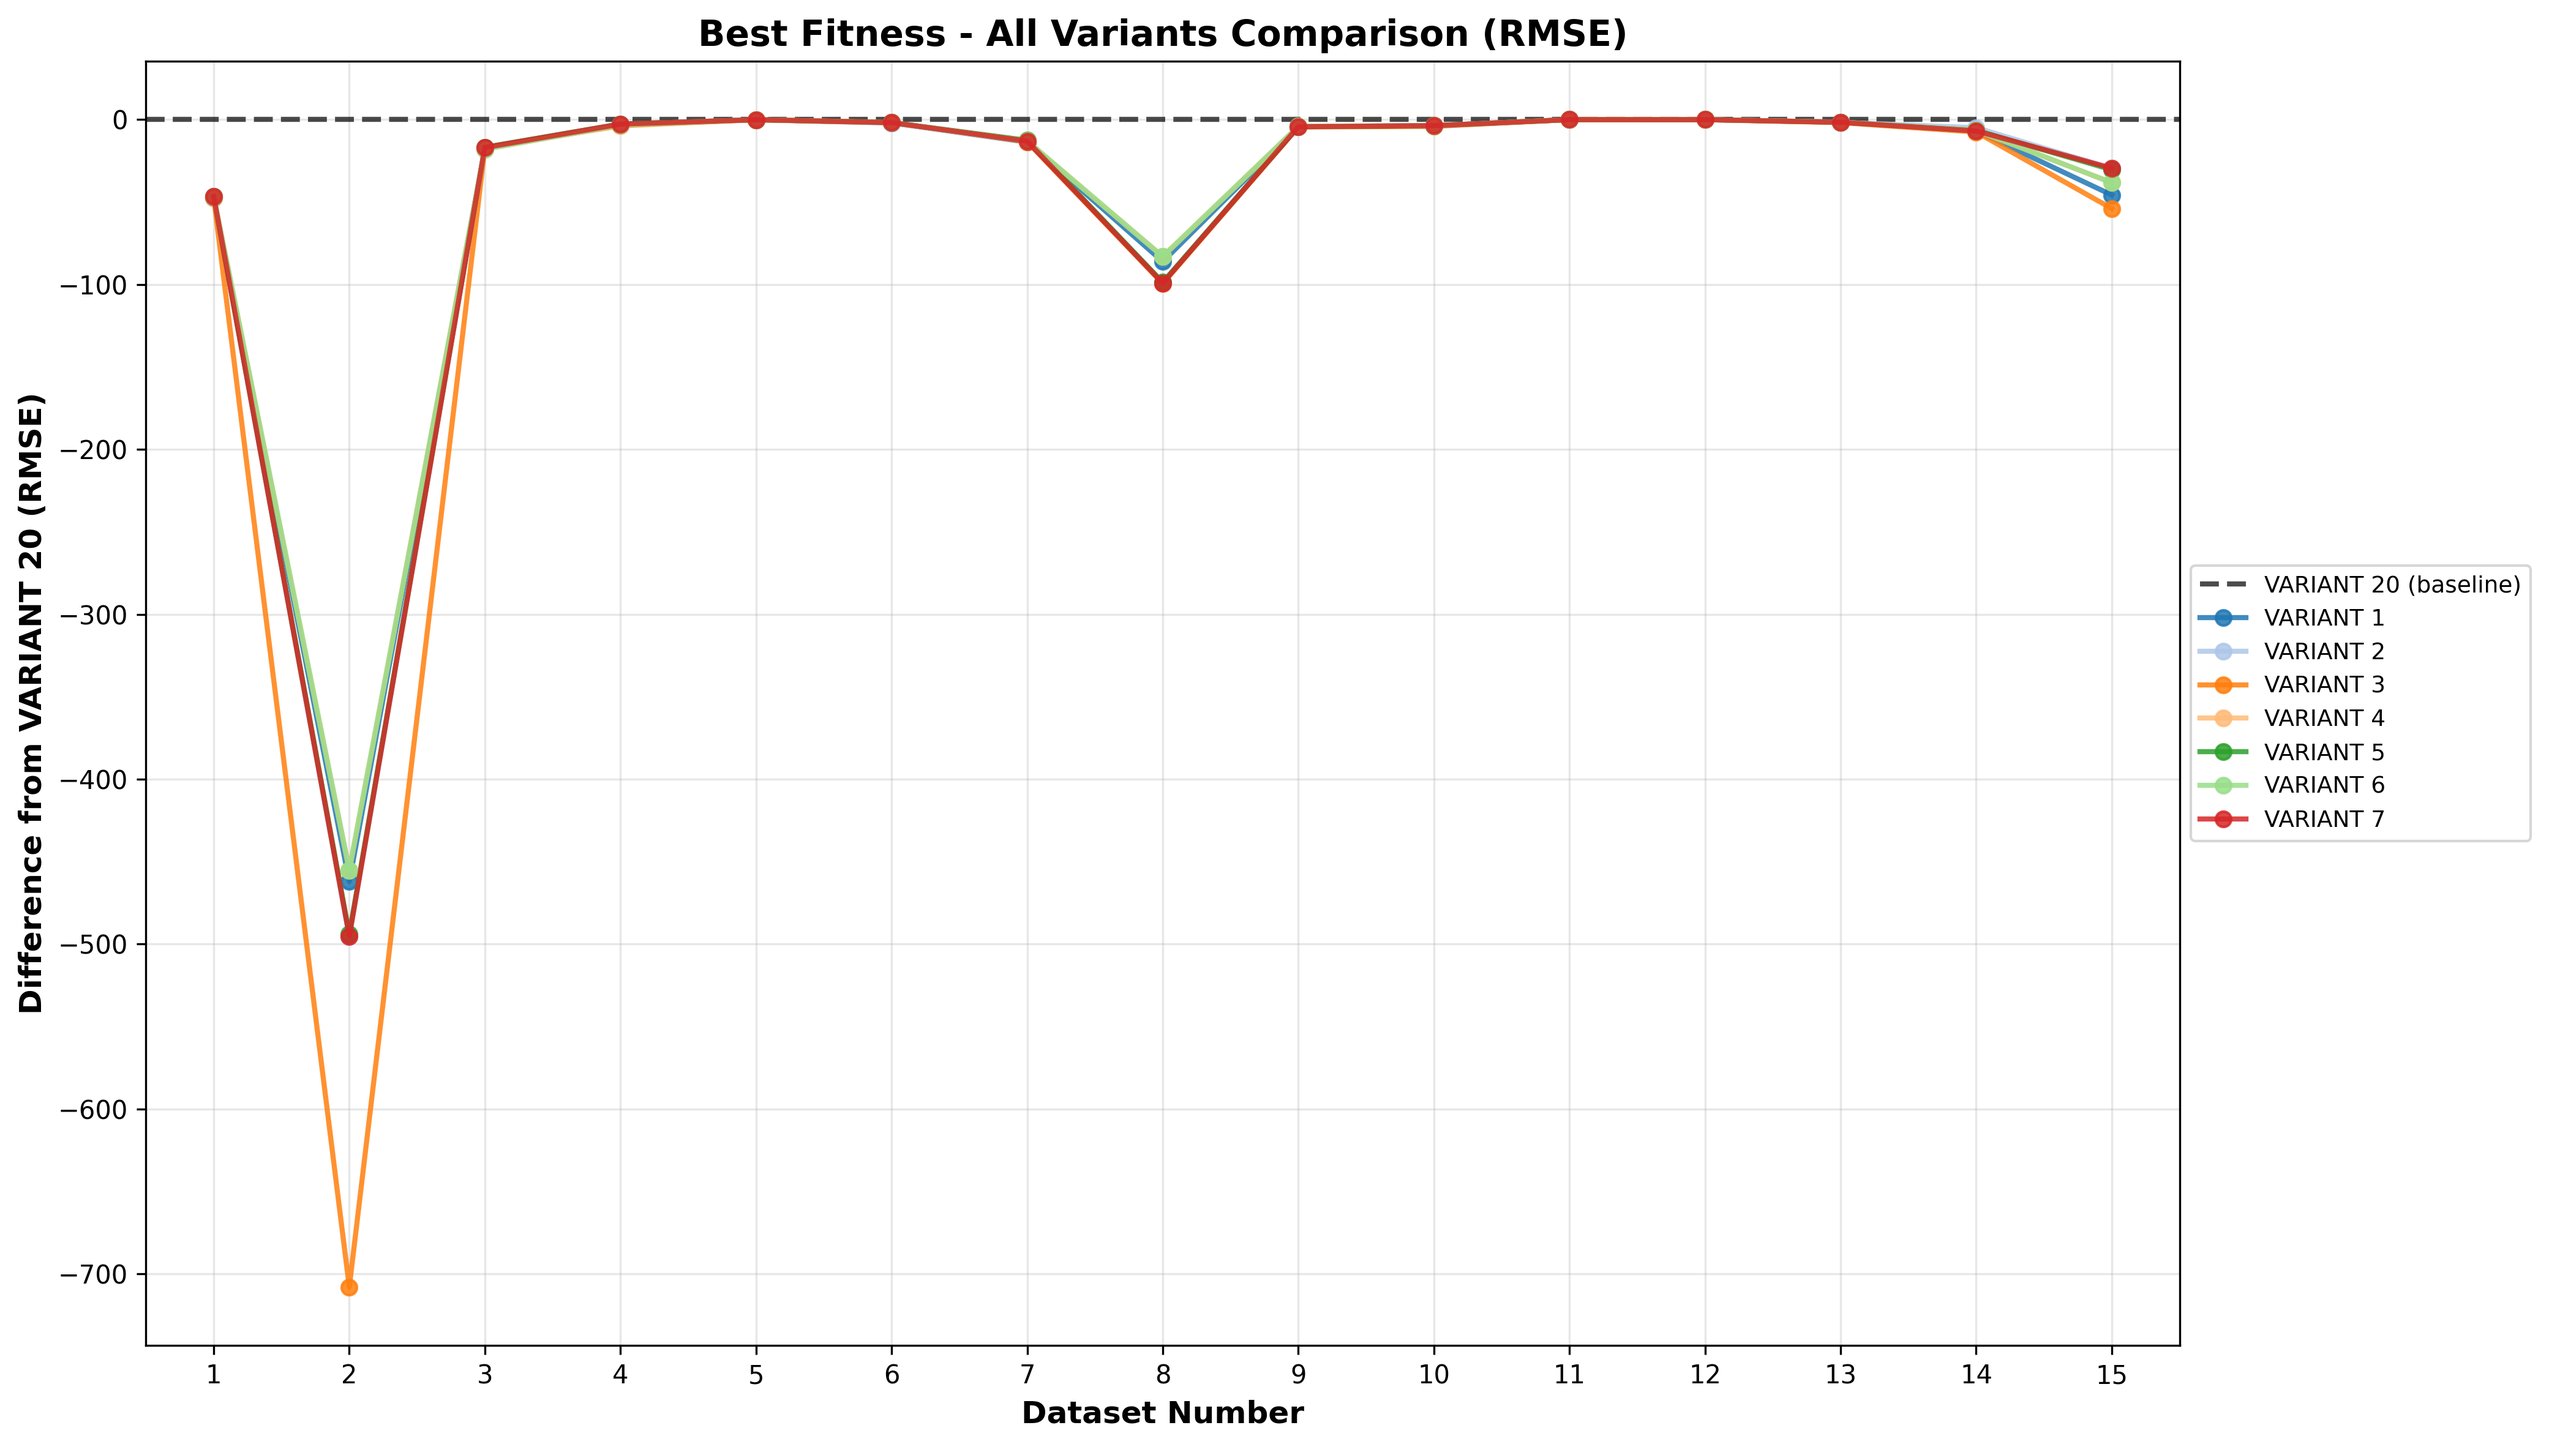
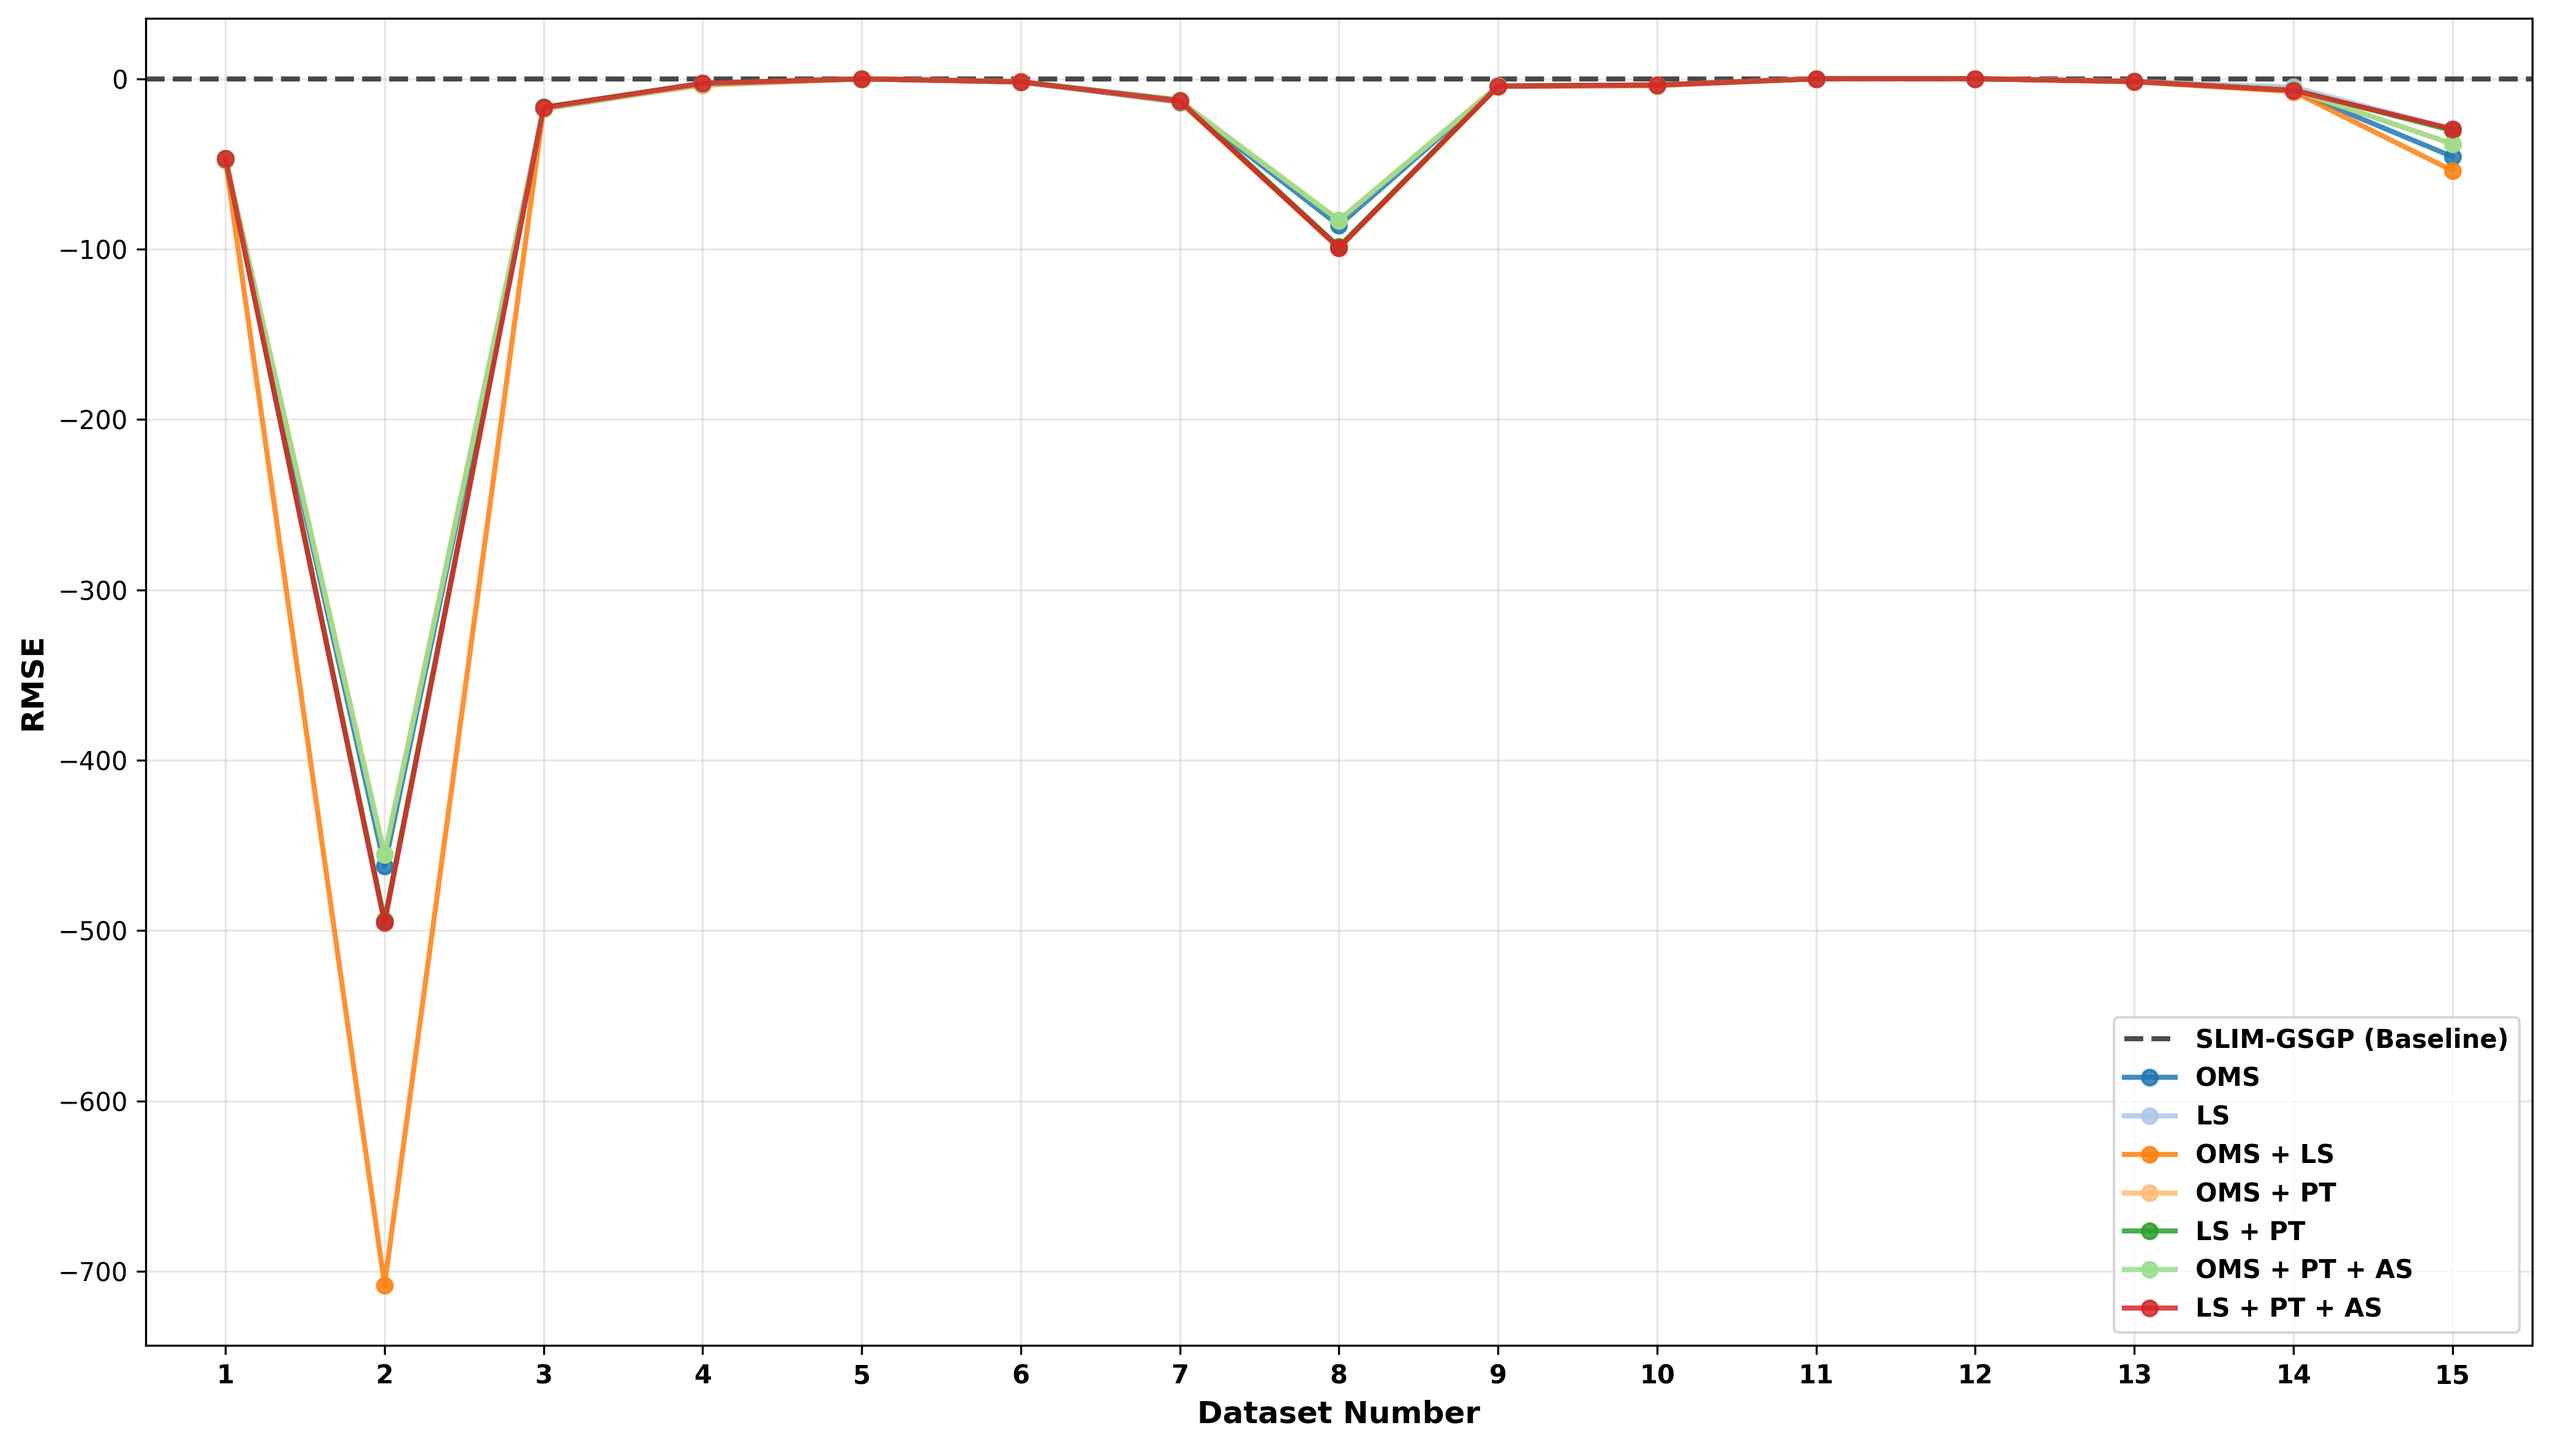
visual improvements

diff --git a/slim_gsgp/plot_by_individual_type.py b/slim_gsgp/plot_by_individual_type.py
@@ -178,6 +178,22 @@ def create_individual_comparison_plot(all_variants_data, model_type, table_type,
         table_type: 'fitness' or 'size'
         baseline_variant: The baseline variant (default: 'VARIANT 20')
     """
+    # Mapping of variant names for legend
+    variant_labels = {
+        'VARIANT 20': 'SLIM-GSGP (Baseline)',
+        'VARIANT 1': 'OMS',
+        'VARIANT 1b': 'OMS (OMS=0)',
+        'VARIANT 2': 'LS',
+        'VARIANT 3': 'OMS + LS',
+        'VARIANT 3b': 'OMS + LS (OMS=0)',
+        'VARIANT 4': 'OMS + PT',
+        'VARIANT 4b': 'OMS + PT (OMS=0)',
+        'VARIANT 5': 'LS + PT',
+        'VARIANT 6': 'OMS + PT + AS',
+        'VARIANT 6b': 'OMS + PT + AS (OMS=0)',
+        'VARIANT 7': 'LS + PT + AS'
+    }
+    
     plt.figure(figsize=(14, 8))
     
     # Define colors for different variants (cycle through if more variants)
@@ -190,13 +206,21 @@ def create_individual_comparison_plot(all_variants_data, model_type, table_type,
         return None
     
     # Draw zero reference line (baseline)
-    plt.axhline(0, color='black', linestyle='--', linewidth=2, alpha=0.7, label=f'{baseline_variant} (baseline)')
+    baseline_label = variant_labels.get(baseline_variant, baseline_variant)
+    plt.axhline(0, color='black', linestyle='--', linewidth=2, alpha=0.7, label=baseline_label)
+    
+    # Filter to show only original 7 variants (1-7, excluding 'b' variants)
+    variants_to_show = ['VARIANT 1', 'VARIANT 2', 'VARIANT 3', 'VARIANT 4', 'VARIANT 5', 'VARIANT 6', 'VARIANT 7']
     
     # Plot each variant (except baseline) as difference from baseline
     variant_idx = 0
     for variant_name in sorted(all_variants_data.keys(), 
                                key=lambda x: int(re.search(r'\d+', x).group()) if re.search(r'\d+', x) else 0):
         if variant_name == baseline_variant:
+            continue
+        
+        # Skip variants not in the filter list
+        if variant_name not in variants_to_show:
             continue
         
         variant_data = all_variants_data[variant_name]
@@ -219,40 +243,42 @@ def create_individual_comparison_plot(all_variants_data, model_type, table_type,
                 differences.append(diff)
         
         if datasets:
+            # Use default color palette
             color = color_palette[variant_idx % len(color_palette)]
+            
+            variant_label = variant_labels.get(variant_name, variant_name)
             
             plt.plot(datasets, differences,
                     color=color,
                     marker='o',
                     linewidth=2,
                     markersize=6,
-                    label=variant_name,
+                    label=variant_label,
                     alpha=0.85)
             
             variant_idx += 1
     
     plt.xlabel('Dataset Number', fontsize=12, fontweight='bold')
     
-    # Use "RMSE" instead of "fitness" in labels, and "%" for size
+    # Use "RMSE" for fitness labels, and "Reduction in size (%)" for size
     if table_type.lower() == 'fitness':
-        metric_name = "RMSE"
-        ylabel = f'Difference from {baseline_variant} ({metric_name})'
-        title_metric = metric_name
+        ylabel = 'RMSE'
+        title_metric = "RMSE"
     else:
-        ylabel = f'% Difference from {baseline_variant} (Size)'
+        ylabel = 'Reduction in size (%)'
         title_metric = "Size %"
     plt.ylabel(ylabel, fontsize=12, fontweight='bold')
     
     model_type_short = model_type.replace(' ', '_').lower()
-    plt.title(f'{model_type} - All Variants Comparison ({title_metric})', 
-             fontsize=14, fontweight='bold')
+    # plt.title(f'{model_type} - All Variants Comparison ({title_metric})', 
+    #          fontsize=14, fontweight='bold')
     
-    plt.xticks(range(1, 16))
+    plt.xticks(range(1, 16), weight='bold')
     plt.xlim(0.5, 15.5)
     plt.grid(True, alpha=0.3)
     
-    # Place legend outside the plot area
-    plt.legend(loc='center left', bbox_to_anchor=(1, 0.5), fontsize=9)
+    # Place legend inside the plot area with bold text
+    plt.legend(loc='best', fontsize=9, prop={'weight': 'bold'})
     plt.tight_layout()
     
     return plt.gcf()  # Return current figure instead of plt module

diff --git a/slim_gsgp/export_comparison_to_excel.py b/slim_gsgp/export_comparison_to_excel.py
@@ -230,16 +230,21 @@ def get_all_variants(df):
             'TEST FITNESS' not in variant_name.upper()):
             variants.add(variant_name)
     
-    # Sort variants: VARIANT 20 first, then others numerically
+    # Sort variants: VARIANT 20 first, then others numerically (with support for 1b, 3b, etc.)
     def variant_sort_key(v):
-        match = re.search(r'VARIANT\s*(\d+)', v, re.IGNORECASE)
+        match = re.search(r'VARIANT\s*(\d+)([a-z]?)', v, re.IGNORECASE)
         if match:
             num = int(match.group(1))
+            suffix = match.group(2).lower() if match.group(2) else ''
+            
             # Put VARIANT 20 first (use -1), then sort others numerically
             if num == 20:
-                return -1
-            return num
-        return 999
+                return (-1, '')
+            
+            # Return tuple: (number, suffix) for proper sorting
+            # This will sort: 1, 1b, 2, 3, 3b, 4, 4b, etc.
+            return (num, suffix)
+        return (999, '')
     
     sorted_variants = sorted(variants, key=variant_sort_key)
     return sorted_variants
